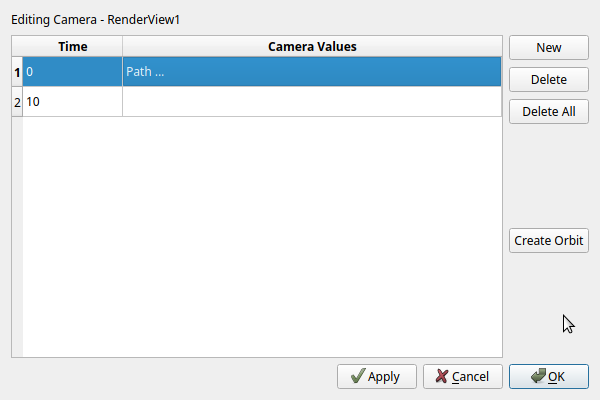
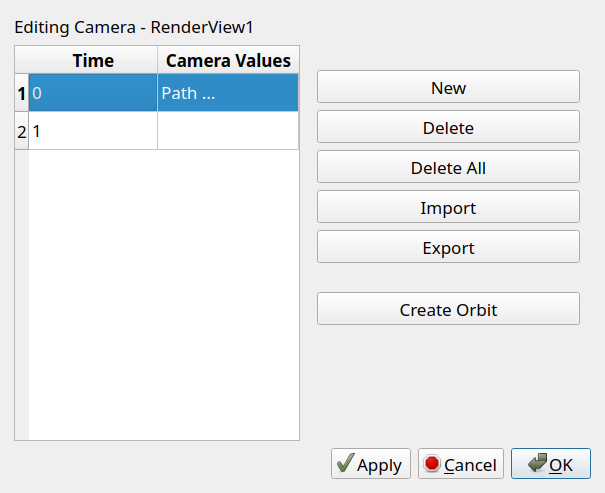
Updates for PV 5.13

diff --git a/docs/exercise2.md b/docs/exercise2.md
@@ -34,7 +34,7 @@ ParaView does not know by itself how these individual variables relate to the po
 
 ▶ Compare the __Information__ tabs of the __wervel.csv__ source and the __TableToPoints__ filter to see how the output data has changed (type, number of points/cells, etc), and verify that the data arrays produced by the TableToPoints filter match those of the wervel.csv source.
 
-▶ If needed, enable visibility of the TableToPoints output by clicking the eye icon next to it in the pipeline browser. If you have both a RenderView (the 3D panel) and a Spreadsheet view then make sure you have the RenderView selected (by clicking in it) before enabling visibility of the TableToPoints output. You should now see a regular 3D grid of (white) points, indicating that the point position values from the CSV data have correctly been set based on the table input.
+▶ If needed, enable visibility of the TableToPoints output by clicking the eye icon next to it in the pipeline browser. **If you have both a RenderView (the 3D panel) and a Spreadsheet view then make sure you have the RenderView selected (by clicking in it) before enabling visibility of the TableToPoints output.** You should now see a regular 3D grid of (white) points, indicating that the point position values from the CSV data have correctly been set based on the table input.
 
 ## Creating velocity vectors
 
@@ -94,7 +94,7 @@ Now lets do some initial particle tracing through the flow field using the strea
 
 This will give you a set of lines, each representing a trace of a particle as it follows the flow in the tornado. 
 
-▶ Note the small white 3D axis and large sphere at the bottom of the tornado: this is the seed center (12,12,0) and given radius around which the traced particles start. You could experiment with different locations of the seed point to see how this influences the streamlines.
+▶ Note the small red 3D axis and large sphere at the bottom of the tornado: this is the seed center (12,12,0) and given radius around which the traced particles start. You could experiment with different locations of the seed point to see how this influences the streamlines.
 
 !!! Hint "Accidental sphere changes / Resetting a filter to last executed values"
 

diff --git a/docs/exercise3.md b/docs/exercise3.md
@@ -21,9 +21,11 @@ change dynamically over time, showing us the growth of the coral over time.
 
 ▶ Link the contour iso-surface value to the time sequence by using the blue __+__ button right of the __Contour1__ and __Isosurfaces__ dropdown menus.
 
-![](images/animation.png)
+![](images/time-manager.png)
 
 ▶ Verify that this adds __Contour1__ to the timeline, directly under __Animations__ as a second "strip" over the full length of the time bar. The values at the far left and right edges of the strip are the isosurface values used at those time points (1280 and 37120, respectively). These values are based on the min/max values from the input dataset, which can you verify using the __Information__ tab of __ALT_PRPB001A.vtk__.
+
+![](images/time-manager2.png)
 
 ▶ With the animation set up you can now use the playback buttons, either in the Time Manager or in the main toolbar, to play through the growth of the simulation. The double arrow button controls if the playback loops back to the start. When the animation is paused you can change the current time by clicking or dragging in the Time Sources bar.
 

diff --git a/docs/preparation.md b/docs/preparation.md
@@ -19,7 +19,7 @@ All course data files and slides can be found at https://edu.nl/k6ttu. There we 
 
 We provide ParaView binaries *for Windows and Linux* for this course in the course materials share (see above). For macOS there are many variations available on https://www.paraview.org/download/ and you probably know best yourself which one you need.
 
-This guide has been written for ParaView version **5.12**. Between ParaView versions small differences in GUI (and functionality) exist, but most of what is written in these notes should be easy to apply to other versions of ParaView. 
+This guide has been written for ParaView version **5.13**. Between ParaView versions small differences in GUI (and functionality) exist, but most of what is written in these notes should be easy to apply to other versions of ParaView.
 
 !!! Warning "OpenGL compatibility"
 
